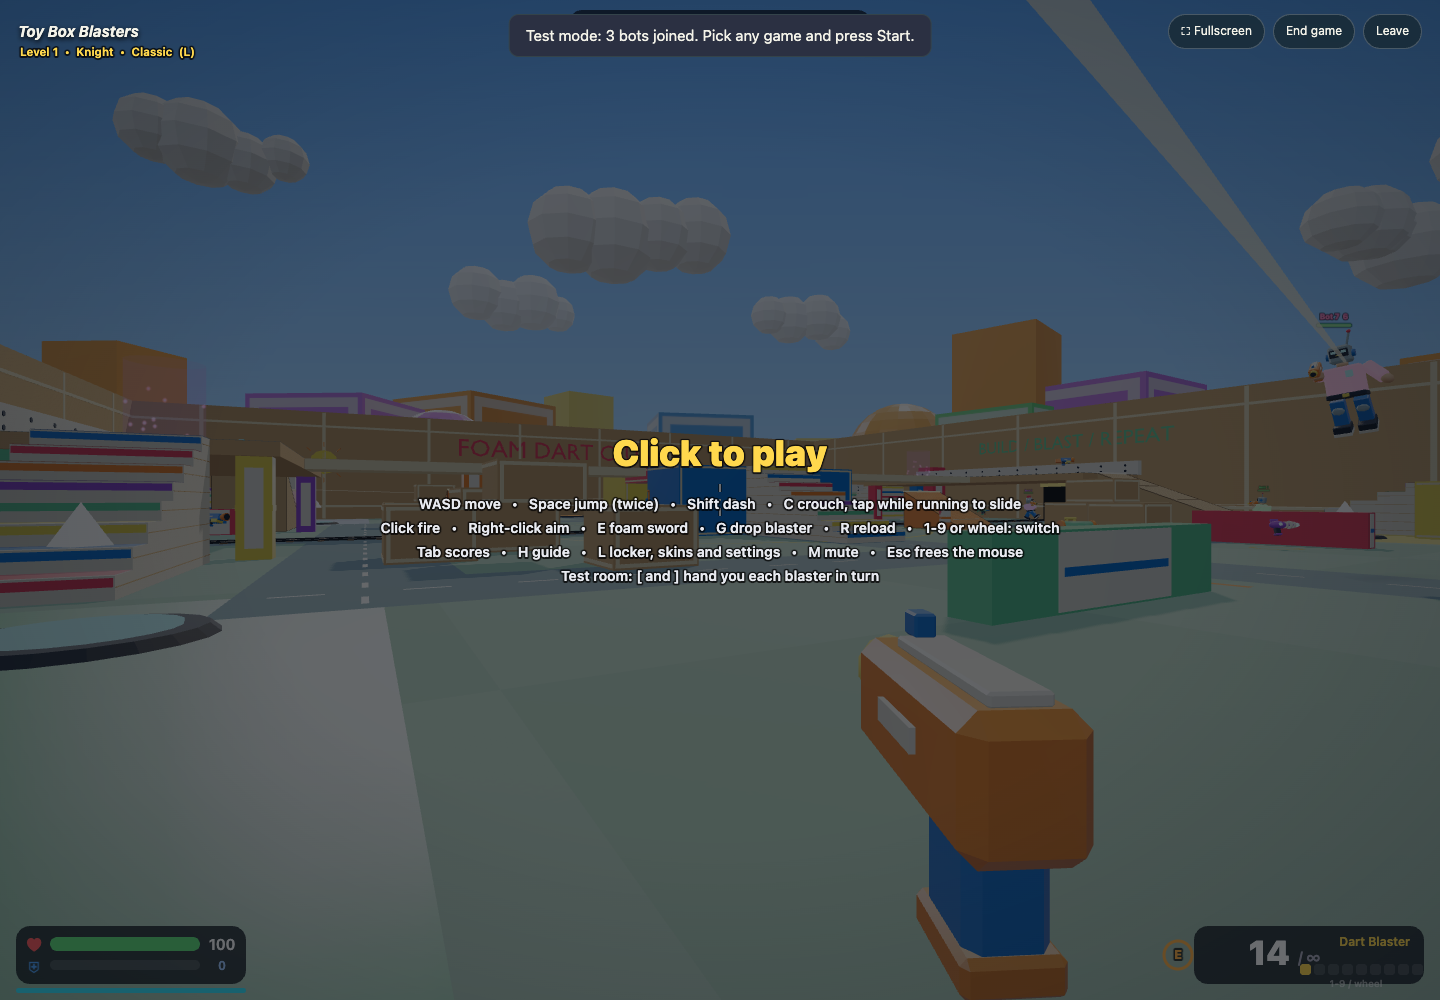
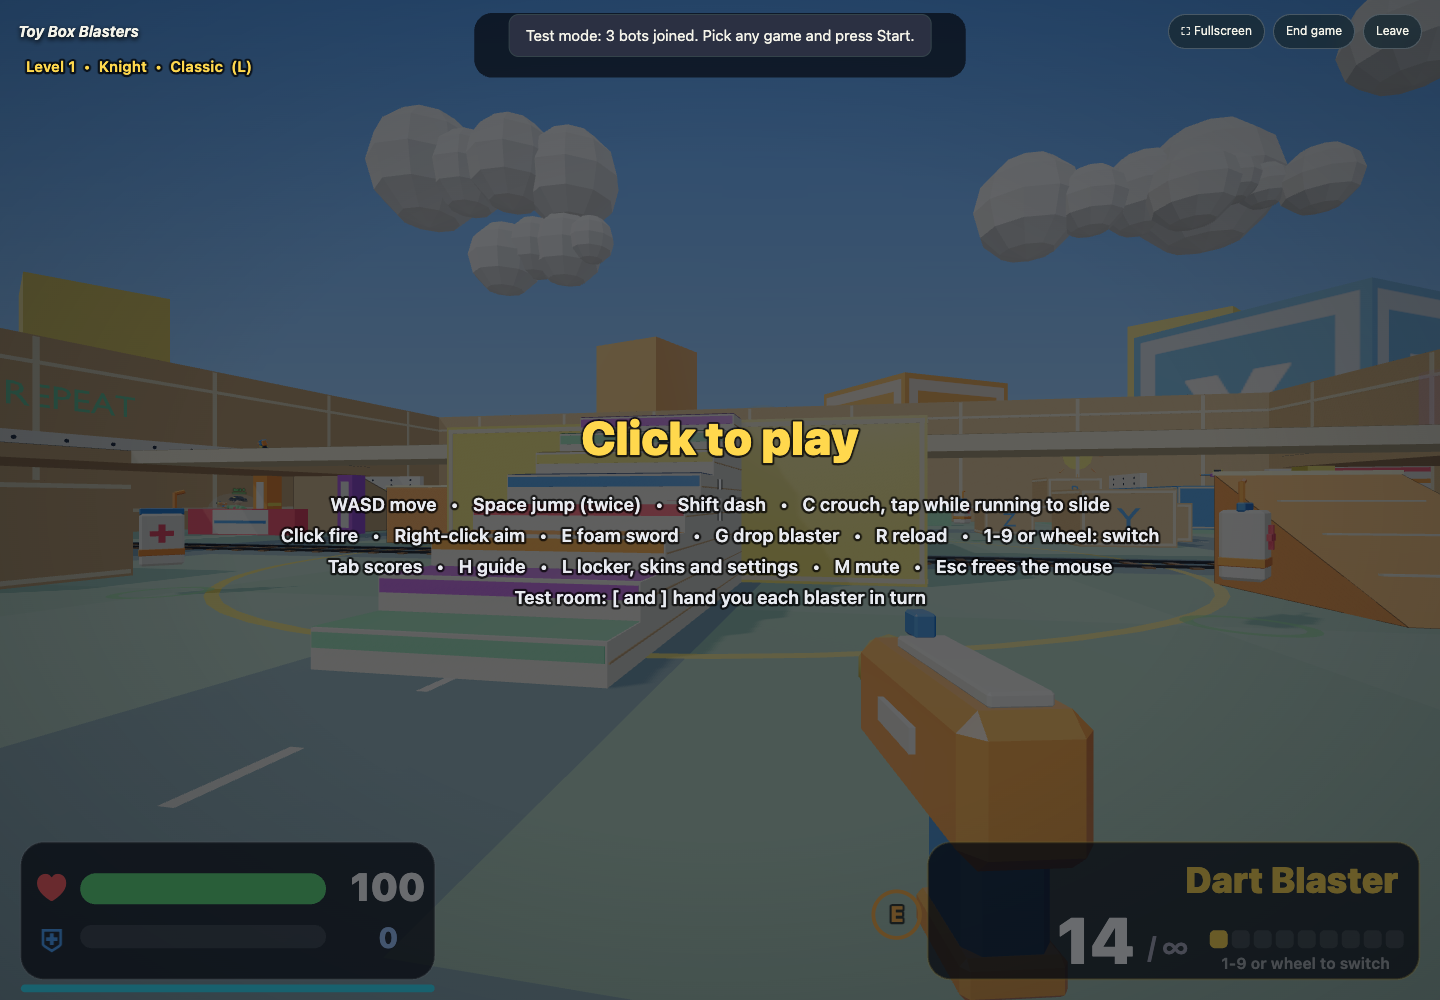
Scale the HUD with the screen, enlarge the bottom panels, ease the shooter bots
Both games' HUDs now scale with the window (designed for 1280x800, up to
1.7x on a monitor). The shooter's health and ammo panels are larger with
a 28px blaster name and a 50px dart count. Bots notice you a little
later, pause longer between shots, land about a quarter fewer darts,
miss more at range and headshot less.

diff --git a/public/games/blasters.js b/public/games/blasters.js
@@ -475,7 +475,9 @@ registerGame('blasters', (G) => {
       if (w === fw && h === fh && l === fl && t === ft) return; fw = w; fh = h; fl = l; ft = t;
       gl.style.left = l + 'px'; gl.style.top = t + 'px'; gl.style.width = w + 'px'; gl.style.height = h + 'px';
       renderer.setSize(Math.max(1, w), Math.max(1, h), false); camera.aspect = w / Math.max(1, h); camera.updateProjectionMatrix();
-      const dpr = Math.min(window.devicePixelRatio || 1, 2); W = w; H = h; canvas.width = Math.round(w * dpr); canvas.height = Math.round(h * dpr); ctx.setTransform(dpr, 0, 0, dpr, 0, 0);
+      // the HUD scales with the screen: designed for about 1280x800, it grows on a monitor and shrinks a little on a phone
+      const uiScale = Math.max(0.75, Math.min(1.7, Math.min(w / 1280, h / 800) * 1.15)), dpr = Math.min(window.devicePixelRatio || 1, 2);
+      W = w / uiScale; H = h / uiScale; canvas.width = Math.round(w * dpr); canvas.height = Math.round(h * dpr); ctx.setTransform(dpr * uiScale, 0, 0, dpr * uiScale, 0, 0);
     }
     const proj = new THREE.Vector3(); let preview = null;
     return {
@@ -661,7 +663,7 @@ registerGame('blasters', (G) => {
     if (card) { card.t -= dt; if (card.t <= 0) card = null; else { // big, high-contrast, wrapped onto two lines if needed, and it stays up for six seconds
       const cw = Math.min(W - 24, 760), a = Math.min(1, card.t * 2), x0 = cx - cw / 2 + 26; ctx.font = '600 19px system-ui, sans-serif';
       const words = card.tip.split(' '), lines = ['']; for (const w of words) { const tryLine = (lines[lines.length - 1] + ' ' + w).trim(); if (ctx.measureText(tryLine).width > cw - 52 && lines[lines.length - 1]) lines.push(w); else lines[lines.length - 1] = tryLine; }
-      const ch = 66 + lines.length * 26, cy0 = H - 150 - ch; /* sits at the bottom, just above the health and ammo panels */ ctx.globalAlpha = a; rr(cx - cw / 2, cy0, cw, ch, 18, 'rgba(8,12,20,.9)', card.color); rr(cx - cw / 2, cy0, 10, ch, 5, card.color);
+      const ch = 66 + lines.length * 26, cy0 = H - 172 - ch; /* sits at the bottom, just above the health and ammo panels */ ctx.globalAlpha = a; rr(cx - cw / 2, cy0, cw, ch, 18, 'rgba(8,12,20,.9)', card.color); rr(cx - cw / 2, cy0, 10, ch, 5, card.color);
       txt(card.name, x0, cy0 + 28, { size: 26, weight: 900, align: 'left', color: card.color, stroke: false });
       lines.forEach((l, i) => txt(l, x0, cy0 + 64 + i * 26, { size: 19, weight: 600, align: 'left', color: '#fff', stroke: false }));
       ctx.globalAlpha = 1; } }
@@ -672,19 +674,19 @@ registerGame('blasters', (G) => {
     feed.forEach((f, i) => txt(f.text, W - 16, 88 + i * 22, { size: 15, align: 'right', color: f.mine ? '#ffd84d' : `rgba(255,255,255,${Math.min(1, f.t)})` }));
     // bottom-left: health + armour. Big type: you must be able to read your health and what you are holding at a glance.
     if (st) {
-      rr(16, H - 100, 290, 84, 16, 'rgba(8,12,20,.74)');
-      txt('♥', 38, H - 72, { size: 24, color: '#ff5d5d', stroke: false }); rr(58, H - 83, 180, 20, 10, 'rgba(255,255,255,.12)'); if (st.hp > 0) rr(58, H - 83, 180 * Math.min(1, st.hp / 100), 20, 10, st.hp > 100 ? '#7dffb0' : st.hp > 35 ? '#5ee07a' : '#ff4d4d'); txt(String(st.hp), 276, H - 72, { size: 24, weight: 900, stroke: false });
-      txt('⛨', 38, H - 40, { size: 20, color: '#4da6ff', stroke: false }); rr(58, H - 50, 180, 14, 7, 'rgba(255,255,255,.12)'); if (st.ar > 0) rr(58, H - 50, 180 * st.ar / 100, 14, 7, '#4da6ff'); txt(String(st.ar), 276, H - 41, { size: 18, weight: 800, color: '#9fc8ff', stroke: false });
-      if (st.pw) txt(`${POWERS[st.pw].name}  ${st.pwt}s`, 161, H - 116, { size: 19, color: POWERS[st.pw].color, weight: 900 });
-      const cdf = Math.max(0, Math.min(1, 1 - body.dashCd / P.DASH_CD)); rr(16, H - 12, 290, 6, 3, 'rgba(255,255,255,.12)'); rr(16, H - 12, 290 * cdf, 6, 3, cdf >= 1 ? '#35e6ff' : '#5a6b80');
+      rr(16, H - 122, 320, 106, 18, 'rgba(8,12,20,.76)', '#ffffff22');
+      txt('♥', 40, H - 86, { size: 28, color: '#ff5d5d', stroke: false }); rr(62, H - 98, 190, 24, 12, 'rgba(255,255,255,.12)'); if (st.hp > 0) rr(62, H - 98, 190 * Math.min(1, st.hp / 100), 24, 12, st.hp > 100 ? '#7dffb0' : st.hp > 35 ? '#5ee07a' : '#ff4d4d'); txt(String(st.hp), 300, H - 86, { size: 30, weight: 900, stroke: false });
+      txt('⛨', 40, H - 46, { size: 24, color: '#4da6ff', stroke: false }); rr(62, H - 58, 190, 18, 9, 'rgba(255,255,255,.12)'); if (st.ar > 0) rr(62, H - 58, 190 * st.ar / 100, 18, 9, '#4da6ff'); txt(String(st.ar), 300, H - 47, { size: 22, weight: 800, color: '#9fc8ff', stroke: false });
+      if (st.pw) txt(`${POWERS[st.pw].name}  ${st.pwt}s`, 176, H - 138, { size: 20, color: POWERS[st.pw].color, weight: 900 });
+      const cdf = Math.max(0, Math.min(1, 1 - body.dashCd / P.DASH_CD)); rr(16, H - 12, 320, 6, 3, 'rgba(255,255,255,.12)'); rr(16, H - 12, 320 * cdf, 6, 3, cdf >= 1 ? '#35e6ff' : '#5a6b80');
       // bottom-right: ammo + weapon slots. The blaster's name is the biggest thing in the panel.
-      rr(W - 326, H - 100, 310, 84, 16, 'rgba(8,12,20,.74)');
-      txt(def.name, W - 30, H - 76, { size: 22, weight: 900, align: 'right', color: '#ffd84d', stroke: false });
-      txt(String(me.mag), W - 200, H - 40, { size: 40, weight: 900, align: 'right', color: me.mag === 0 ? '#ff5d5d' : '#fff', stroke: false }); txt(st.r < 0 ? '/ ∞' : `/ ${st.r}`, W - 192, H - 36, { size: 18, align: 'left', color: '#aab', stroke: false });
-      for (let i = 0; i < WEAPONS.length; i++) { const own = (st.own >> i) & 1, x = W - 160 + i * 15; rr(x, H - 44, 12, 12, 3, i === me.w ? '#ffd84d' : own ? 'rgba(255,255,255,.55)' : 'rgba(255,255,255,.12)'); }
-      if (!TOUCH) txt(`1-${WEAPONS.length} or wheel to switch`, W - 94, H - 22, { size: 11, color: 'rgba(255,255,255,.55)', stroke: false });
-      { const mf = Math.max(0, Math.min(1, 1 - (me.nextMelee - time) / MELEE.cd)); txt('E', W - 348, H - 56, { size: 15, weight: 800, color: mf >= 1 ? '#ffb347' : '#5a6b80' }); ctx.beginPath(); ctx.arc(W - 348, H - 56, 16, -Math.PI / 2, -Math.PI / 2 + Math.PI * 2 * mf); ctx.strokeStyle = mf >= 1 ? '#ffb347' : '#5a6b80'; ctx.lineWidth = 3; ctx.stroke(); }
-      if (body.crouched && me.alive) txt(body.slideT > 0 ? 'SLIDING' : 'CROUCHED', 161, H - 138, { size: 15, weight: 800, color: '#9fc8ff' });
+      rr(W - 396, H - 122, 380, 106, 18, 'rgba(8,12,20,.76)', '#ffd84d55');
+      txt(def.name, W - 32, H - 92, { size: 28, weight: 900, align: 'right', color: '#ffd84d', stroke: false });
+      txt(String(me.mag), W - 236, H - 44, { size: 50, weight: 900, align: 'right', color: me.mag === 0 ? '#ff5d5d' : '#fff', stroke: false }); txt(st.r < 0 ? '/ ∞' : `/ ${st.r}`, W - 226, H - 40, { size: 22, align: 'left', color: '#aab', stroke: false });
+      for (let i = 0; i < WEAPONS.length; i++) { const own = (st.own >> i) & 1, x = W - 178 + i * 17; rr(x, H - 54, 14, 14, 4, i === me.w ? '#ffd84d' : own ? 'rgba(255,255,255,.55)' : 'rgba(255,255,255,.12)'); }
+      if (!TOUCH) txt(`1-${WEAPONS.length} or wheel to switch`, W - 104, H - 28, { size: 12, color: 'rgba(255,255,255,.6)', stroke: false });
+      { const mf = Math.max(0, Math.min(1, 1 - (me.nextMelee - time) / MELEE.cd)); txt('E', W - 420, H - 66, { size: 17, weight: 800, color: mf >= 1 ? '#ffb347' : '#5a6b80' }); ctx.beginPath(); ctx.arc(W - 420, H - 66, 18, -Math.PI / 2, -Math.PI / 2 + Math.PI * 2 * mf); ctx.strokeStyle = mf >= 1 ? '#ffb347' : '#5a6b80'; ctx.lineWidth = 3; ctx.stroke(); }
+      if (body.crouched && me.alive) txt(body.slideT > 0 ? 'SLIDING' : 'CROUCHED', 176, H - 160, { size: 16, weight: 800, color: '#9fc8ff' });
     }
     // death screen
     if (st && st.dead && !over) { ctx.fillStyle = 'rgba(10,0,0,.4)'; ctx.fillRect(0, 0, W, H); txt(deathBy || 'Tagged out!', cx, cy - 40, { size: 30, color: '#ff6b6b', weight: 900 }); txt(`Back in ${Math.max(0, st.dead).toFixed(1)}s`, cx, cy, { size: 18 }); txt(`${CHAR_NAMES[charIdx]} in ${SKINS[skinIdx].name}   •   press L for the locker`, cx, cy + 34, { size: 13, color: '#cfd6e4' }); }

diff --git a/public/style.css b/public/style.css
@@ -85,13 +85,13 @@ button:focus-visible,a:focus-visible,summary:focus-visible { outline:3px solid #
 @media(pointer:coarse){ .bl-touch { display:block;position:absolute;inset:0;pointer-events:none;z-index:6;font:800 11px system-ui; }
 .bl-touch>* { pointer-events:auto;touch-action:none;user-select:none;-webkit-user-select:none; }
 .bl-look { position:absolute;left:50%;top:0;right:0;bottom:0; }
-.bl-stick { position:absolute;left:26px;bottom:112px;width:128px;height:128px;border-radius:50%;background:#0f1d2a88;border:2px solid #ffffff40;backdrop-filter:blur(8px); }
+.bl-stick { position:absolute;left:26px;bottom:134px;width:128px;height:128px;border-radius:50%;background:#0f1d2a88;border:2px solid #ffffff40;backdrop-filter:blur(8px); }
 .bl-knob { position:absolute;left:38px;top:38px;width:52px;height:52px;border-radius:50%;background:#d9fa78dd;box-shadow:0 2px 10px #0006; }
 .bl-touch button { position:absolute;width:54px;height:54px;border-radius:50%;padding:0;background:#102b3bbf;border:1px solid #ffffff50;color:#fff;backdrop-filter:blur(10px);font-size:10px;letter-spacing:.5px; }
 .bl-touch button.pressed,.bl-touch button.on { background:#d9fa78;color:#142d2a; }
-.bl-fire { right:20px;bottom:112px;width:84px!important;height:84px!important;font-size:15px!important;background:#ff5d5dcc!important;border-color:#fff8!important; }
-.bl-jump { right:116px;bottom:100px; } .bl-aim { right:112px;bottom:166px; } .bl-crouch { right:24px;bottom:206px;width:50px!important;height:50px!important;font-size:9px!important; } .bl-sword { right:180px;bottom:130px;width:50px!important;height:50px!important; } .bl-dash { right:172px;bottom:192px;width:50px!important;height:50px!important; }
-.bl-reload { right:92px;bottom:232px;width:46px!important;height:46px!important;font-size:9px!important; } .bl-next { right:150px;bottom:252px;width:46px!important;height:46px!important; } .bl-drop { right:30px;bottom:266px;width:42px!important;height:42px!important;font-size:9px!important; }
+.bl-fire { right:20px;bottom:134px;width:84px!important;height:84px!important;font-size:15px!important;background:#ff5d5dcc!important;border-color:#fff8!important; }
+.bl-jump { right:116px;bottom:122px; } .bl-aim { right:112px;bottom:188px; } .bl-crouch { right:24px;bottom:228px;width:50px!important;height:50px!important;font-size:9px!important; } .bl-sword { right:180px;bottom:152px;width:50px!important;height:50px!important; } .bl-dash { right:172px;bottom:214px;width:50px!important;height:50px!important; }
+.bl-reload { right:92px;bottom:254px;width:46px!important;height:46px!important;font-size:9px!important; } .bl-next { right:150px;bottom:274px;width:46px!important;height:46px!important; } .bl-drop { right:30px;bottom:288px;width:42px!important;height:42px!important;font-size:9px!important; }
 .bl-menu { left:26px;top:62px;width:auto!important;height:34px!important;border-radius:17px!important;padding:0 12px!important; } .bl-scores { left:110px;top:62px;width:auto!important;height:34px!important;border-radius:17px!important;padding:0 12px!important; } }
 .fort .map-art { background:linear-gradient(135deg,#8fd0ff,#4f8fcf); }.towers .map-art { background:linear-gradient(135deg,#ffc48a,#e07a5f); }.map-art>span { position:absolute;bottom:12px;left:14px;background:#122530ce;color:white;padding:5px 8px;border-radius:5px;font-size:9px;letter-spacing:1px; }.map-copy { padding:17px;display:grid;gap:5px; }.map-copy b { font-size:18px; }.map-copy small { color:#6b7973;font-size:12px; }
 .how-to { display:flex;align-items:center;justify-content:space-between;gap:20px;flex-wrap:wrap;max-width:1260px;margin:0 auto;padding:40px 0; }.how-to>b { font-size:12px;letter-spacing:1px; }.how-to span { font-size:12px;color:#c1ceca; }.how-to small { font-size:10px;color:#77918f; }kbd { padding:7px 9px;background:#2a3d41;border:1px solid #4b6060;border-bottom-width:3px;border-radius:6px;margin-right:8px;font:700 10px system-ui; }footer { border-top:1px solid #ffffff16;max-width:1260px;margin:auto;padding:22px 0 40px;font-size:12px;font-weight:900;letter-spacing:2px; }footer span { float:right;font-weight:400;letter-spacing:0;color:#93aaa9; }

diff --git a/server/bots.js b/server/bots.js
@@ -75,7 +75,7 @@ function blRoute(from, to, map) {
   let step = prev[a]; if (prev[step] !== step) step = prev[step];
   return step === z ? to : { x: (step % n) - S + 0.5, z: ((step / n) | 0) - S + 0.5 };
 }
-const BL_AIM = [0.42, 0.6, 0.34, 0.45, 1, 0.4, 1, 0.5, 1]; // per weapon; the Splash Lobber (6) is never chosen by bots // chance a bot's shot connects at point-blank, per weapon
+const BL_AIM = [0.32, 0.46, 0.26, 0.34, 1, 0.3, 1, 0.38, 1]; // eased: bots land about a quarter fewer darts than before // per weapon; the Splash Lobber (6) is never chosen by bots // chance a bot's shot connects at point-blank, per weapon
 
 const BRAINS = {
   blasters(b, s, c) {
@@ -114,7 +114,7 @@ const BRAINS = {
     body.grav = me.pw === 'moon' ? 0.33 : 1;
     for (let i = 0; i < 6; i++) BL.stepPlayer(body, { f, s: st, yaw: m.yaw, jump: i === 0 && jump, dash: i === 0 && tgt && Math.random() < 0.03 }, c.dt / 6, me.pw === 'speed' ? 1.45 : 1, MAP);
     // bots bonk you with the foam sword when you get in their face, and sometimes crouch while shooting
-    if (tgt && td < BL.MELEE.range && Math.abs(tgt.y - body.y) < 1.2 && every(b, 'sword', BL.MELEE.cd + 0.5, c.dt)) out.push({ type: 'melee', hits: [tgt.id] });
+    if (tgt && td < BL.MELEE.range && Math.abs(tgt.y - body.y) < 1.2 && every(b, 'sword', BL.MELEE.cd + 1.2, c.dt)) out.push({ type: 'melee', hits: [tgt.id] });
     if (every(b, 'crouchFlip', 2.5, c.dt)) m.cr = tgt && td > 10 && Math.random() < 0.35 ? 1 : 0;
     out.push({ type: 'p', x: +body.x.toFixed(2), y: +body.y.toFixed(2), z: +body.z.toFixed(2), yaw: +m.yaw.toFixed(2), pitch: +m.pitch.toFixed(2), cr: m.cr || 0 });
     // weapon choice, reload, fire
@@ -124,14 +124,14 @@ const BRAINS = {
     if (m.swT > 0) m.swT -= c.dt;
     if (me.m === 0 && !me.rl) { if (me.r !== 0) out.push({ type: 'reload' }); else if (me.w !== 0) out.push({ type: 'switch', w: 0 }); return out; }
     m.fireCd -= c.dt;
-    if (tgt && m.see > 0.4 && m.fireCd <= 0 && !me.rl && me.m > 0) {
-      m.fireCd = Math.max(1 / wdef.rate, wdef.auto ? 0.22 : 0.5) + rnd(0, 0.25);
+    if (tgt && m.see > 0.7 && m.fireCd <= 0 && !me.rl && me.m > 0) { // bots take 0.7 s to notice you and pause a little longer between shots
+      m.fireCd = Math.max(1 / wdef.rate, wdef.auto ? 0.3 : 0.6) + rnd(0.05, 0.4);
       const d = [tgt.x - ex, (wdef.projectile ? tgt.y + 0.2 : tgt.y + 1.1) - ey, tgt.z - ez], dl = Math.hypot(d[0], d[1], d[2]) || 1, dir = d.map((v) => v / dl);
       const msg = { type: 'fire', w: me.w, o: [+ex.toFixed(2), +ey.toFixed(2), +ez.toFixed(2)], d: dir.map((v) => +v.toFixed(3)), hits: [] };
       if (wdef.projectile) { const e = 0.07; msg.d = [dir[0] + rnd(-e, e), dir[1] + rnd(-e, e), dir[2] + rnd(-e, e)]; }
       else {
-        const chance = BL_AIM[me.w] * Math.max(0.3, Math.min(1, 1.25 - td / 45));
-        if (Math.random() < chance) { const n = wdef.pellets > 1 ? Math.max(1, Math.round(wdef.pellets * Math.max(0.2, 1 - td / 16) * rnd(0.5, 1))) : 1; msg.hits.push({ id: tgt.id, n, h: Math.random() < 0.15 ? 1 : 0 }); msg.e = [tgt.x, tgt.y + 1.1, tgt.z]; }
+        const chance = BL_AIM[me.w] * Math.max(0.22, Math.min(1, 1.15 - td / 40)); // and they miss more at range
+        if (Math.random() < chance) { const n = wdef.pellets > 1 ? Math.max(1, Math.round(wdef.pellets * Math.max(0.2, 1 - td / 16) * rnd(0.5, 1))) : 1; msg.hits.push({ id: tgt.id, n, h: Math.random() < 0.08 ? 1 : 0 }); msg.e = [tgt.x, tgt.y + 1.1, tgt.z]; }
         else { const miss = BL.rayMap(ex, ey, ez, dir[0], dir[1], dir[2], 80, MAP); const tt = miss === Infinity ? 80 : miss; msg.e = [ex + dir[0] * tt + rnd(-1, 1), ey + dir[1] * tt + rnd(0, 1.5), ez + dir[2] * tt + rnd(-1, 1)]; }
       }
       out.push(msg);

diff --git a/public/games/memekarts.js b/public/games/memekarts.js
@@ -645,7 +645,7 @@ registerGame('memekarts', (G) => {
       gl.style.left = l + 'px'; gl.style.top = t + 'px'; gl.style.width = w + 'px'; gl.style.height = h + 'px';
       renderer.setSize(Math.max(1, w), Math.max(1, h), false); camera.aspect = w / Math.max(1, h); camera.updateProjectionMatrix();
       if (composer) { composer.setPixelRatio(renderer.getPixelRatio()); composer.setSize(Math.max(1, w), Math.max(1, h)); }
-      const uiScale=Math.max(.65,Math.min(1.15,h/800)), dpr=Math.min(devicePixelRatio||1,2);
+      const uiScale=Math.max(.65,Math.min(1.6,Math.min(w/1280,h/800)*1.15)), dpr=Math.min(devicePixelRatio||1,2); /* the HUD grows with the screen: readable on a monitor */
       W=w/uiScale;H=h/uiScale;canvas.width=Math.round(w*dpr);canvas.height=Math.round(h*dpr);ctx.setTransform(dpr*uiScale,0,0,dpr*uiScale,0,0);
     }
     const camTarget = new THREE.Vector3(), lookTarget = new THREE.Vector3(); let wasBack = false;
